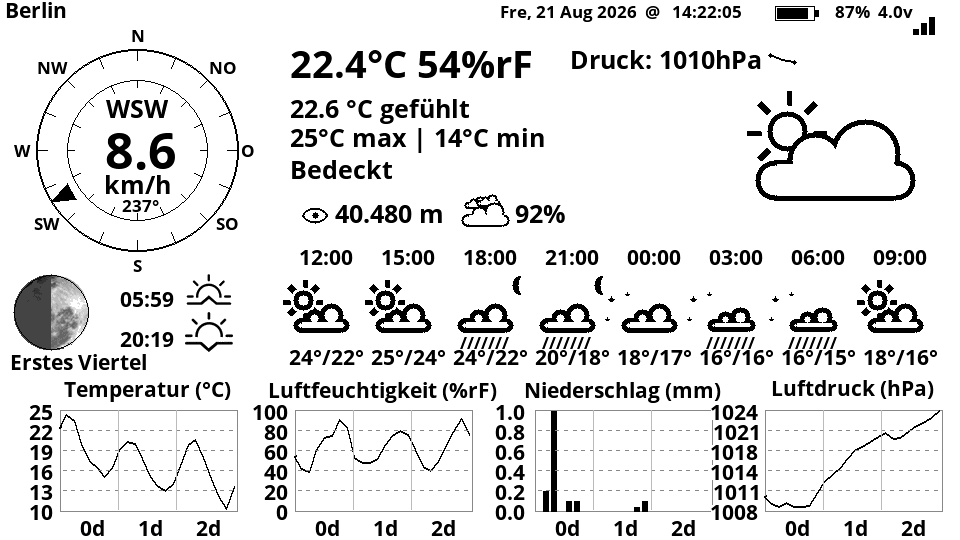
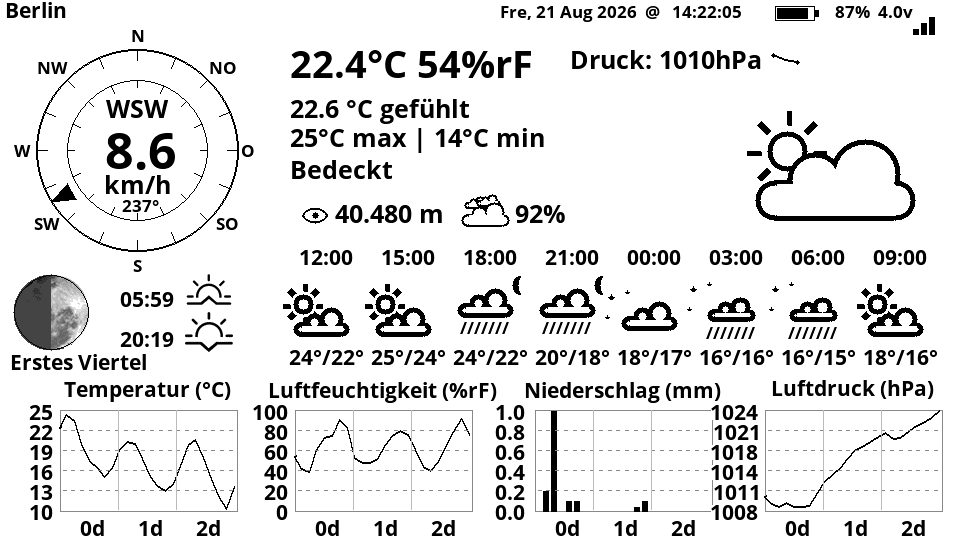
Add French and English previews, and stop the pressure trend colliding
The trend graph sat at a fixed 200 px from the start of the pressure
line. "Druck: " fits inside that, "Pressure: " and "Pression : " do not,
so on those two languages the trend was drawn over the "hPa". It is now
placed after the measured width of the label.

The previews are rendered from the sketch itself with live Open-Meteo
data for Paris and London, alongside the existing Berlin one, and shown
in the README where the language setting is documented.

The Berlin preview is regenerated too: the one committed before came
from a harness build that predated the icon scratch buffer, so it fell
back to drawing the icons uncentred.

diff --git a/README.md b/README.md
@@ -106,7 +106,15 @@ intervals, button pin and battery divider all live there. The file is listed in
 `.gitignore`, so your credentials never end up in a commit.
 
 Pick the display language at the bottom of that file — `lang.h` (English),
-`lang_de.h` (German) or `lang_fr.h` (French).
+`lang_de.h` (German) or `lang_fr.h` (French). Weekday and month names, the
+weather descriptions, the compass points and the graph titles all follow it:
+
+![The display in French, showing Paris](./docs/preview-fr.png)
+
+![The display in English, showing London](./docs/preview-en.png)
+
+*Same sketch, same moment, live Open-Meteo data — only `user_settings.h`
+differs.*
 
 **Battery calibration.** `BATTERY_DIVIDER` defaults to `2.0` (T5-S3, GPIO14).
 Measure the pack voltage at the JST connector with a multimeter and compare it
